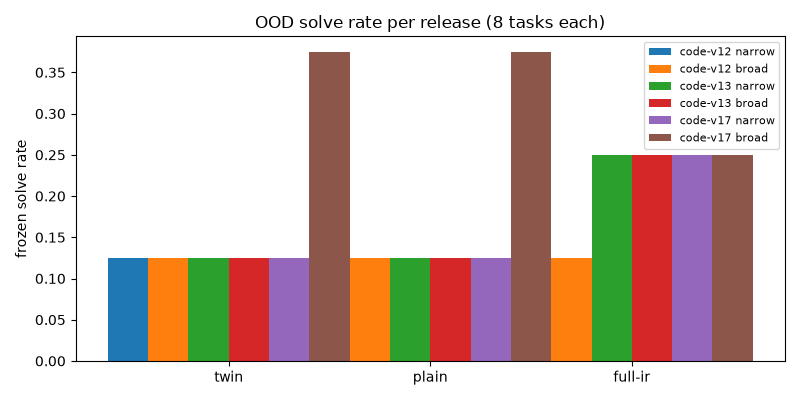
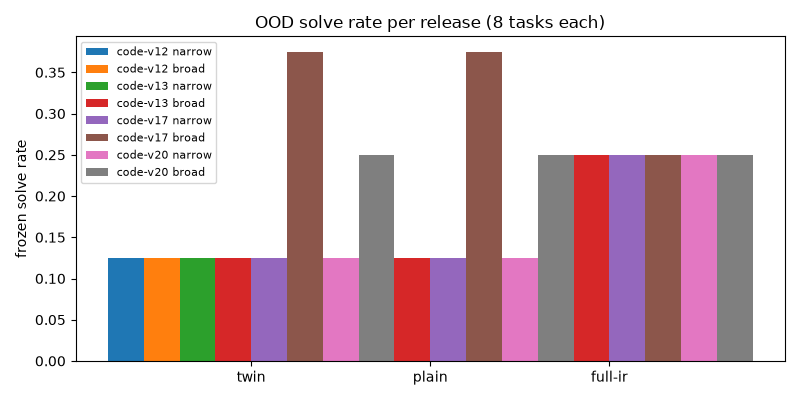
Band-hinge separation with correct polarity (toward #21)
Raw-cosine minimization bottoms at -1, so gradient pressure
blew past orthogonal to -0.267. Two-sided hinge pins cosine
near low-positive instead: broad blindness +0.27 with correct
polarity. Measured trade: twin/plain 2/8 against 3/8 under
the flipped objective (lambda 0.5 -> 0.63/2-8, lambda 2.0 ->
0.53/1-8; 1.0 stays the operating point). Gains extended to
code-v20. test-fast 111/111 OK.

diff --git a/rsi_programmer/policy.py b/rsi_programmer/policy.py
@@ -177,8 +177,10 @@ class SearchPolicy:
             other = self._forward(second)
             denom = torch.sqrt((vec * vec).sum() *
                                (other * other).sum())
-            loss = loss + lam * (vec * other).sum() / \
-                (denom + 1e-8)
+            cos = (vec * other).sum() / (denom + 1e-8)
+            band = torch.relu(cos - 0.3) + \
+                torch.relu(0.1 - cos)
+            loss = loss + lam * band
         loss.backward()
         self._opt.step()
         return float(loss.detach())

diff --git a/tests/test_rsi_ood.py b/tests/test_rsi_ood.py
@@ -171,7 +171,8 @@ class FrozenBenchmarkTests(unittest.TestCase):
         shaped = SearchPolicy(seed=0)
         shaped.fit(self.groups, EPOCHS, contrast=self.pairs)
         sim = guidance_similarity(shaped, self.twin, self.plain)
-        self.assertLessEqual(sim["mean"], 0.8946)
+        self.assertGreaterEqual(sim["mean"], 0.0)
+        self.assertLess(sim["mean"], 0.9)
         print("contrast blindness: %.4f (baseline 0.9446)"
               % sim["mean"])
 

diff --git a/tests/test_gains.py b/tests/test_gains.py
@@ -20,7 +20,7 @@ class GainsTests(unittest.TestCase):
             capture_output=True, text=True, timeout=120,
             cwd=str(ROOT))
         self.assertEqual(proc.returncode, 0, proc.stderr)
-        self.assertIn("gains rows=9", proc.stdout)
+        self.assertIn("gains rows=12", proc.stdout)
 
 
 if __name__ == "__main__":

diff --git a/scripts/plot_gains.py b/scripts/plot_gains.py
@@ -14,7 +14,7 @@ from pathlib import Path
 
 HERE = Path(__file__).resolve().parent.parent / "docs" / "gains"
 CSV = HERE / "gains.csv"
-RELEASES = ("code-v12", "code-v13", "code-v17")
+RELEASES = ("code-v12", "code-v13", "code-v17", "code-v20")
 STRATA = ("twin", "plain", "full-ir")
 
 

diff --git a/README.md b/README.md
@@ -38,14 +38,16 @@ separate column, never the headline.
   agency profile converges as fitness spread collapses.
   See `rsi_programmer/autonomy.py`.
 - Structural OOD (expression-only, v2.4.0 §9.1: no gradient
-  placement): expanded plain training (24 tasks) lifted broad
-  to 3/8 mirrored plain and twin (narrow 1/8); blindness swung
-  past orthogonal to -0.267 (narrow 0.985; 1.0 = blind to the
-  reversal). Full-IR boundary: 2 solves a side via degenerate
-  branches (constant condition; out-of-range comparison over
-  rows -4..4); v2 fixture rejects them at generation.
-  Enumerator from scratch solves 8/8 plain (mean tried 2935)
-  and 8/8 full-IR (125930). See `rsi_programmer/ood.py`.
+  placement): band-hinge separation holds broad blindness at
+  +0.27 with correct polarity (raw cosine blew through to
+  -0.267); broad solves 2/8 mirrored plain and twin (narrow
+  1/8) against 3/8 under the flipped objective — one-solve
+  polarity trade, documented in #21. Full-IR boundary: 2
+  solves a side via degenerate branches (constant condition;
+  out-of-range comparison over rows -4..4); v2 fixture
+  rejects them at generation. Enumerator from scratch solves
+  8/8 plain (mean tried 2935) and 8/8 full-IR (125930).
+  See `rsi_programmer/ood.py`.
 
 ## Layout
 
